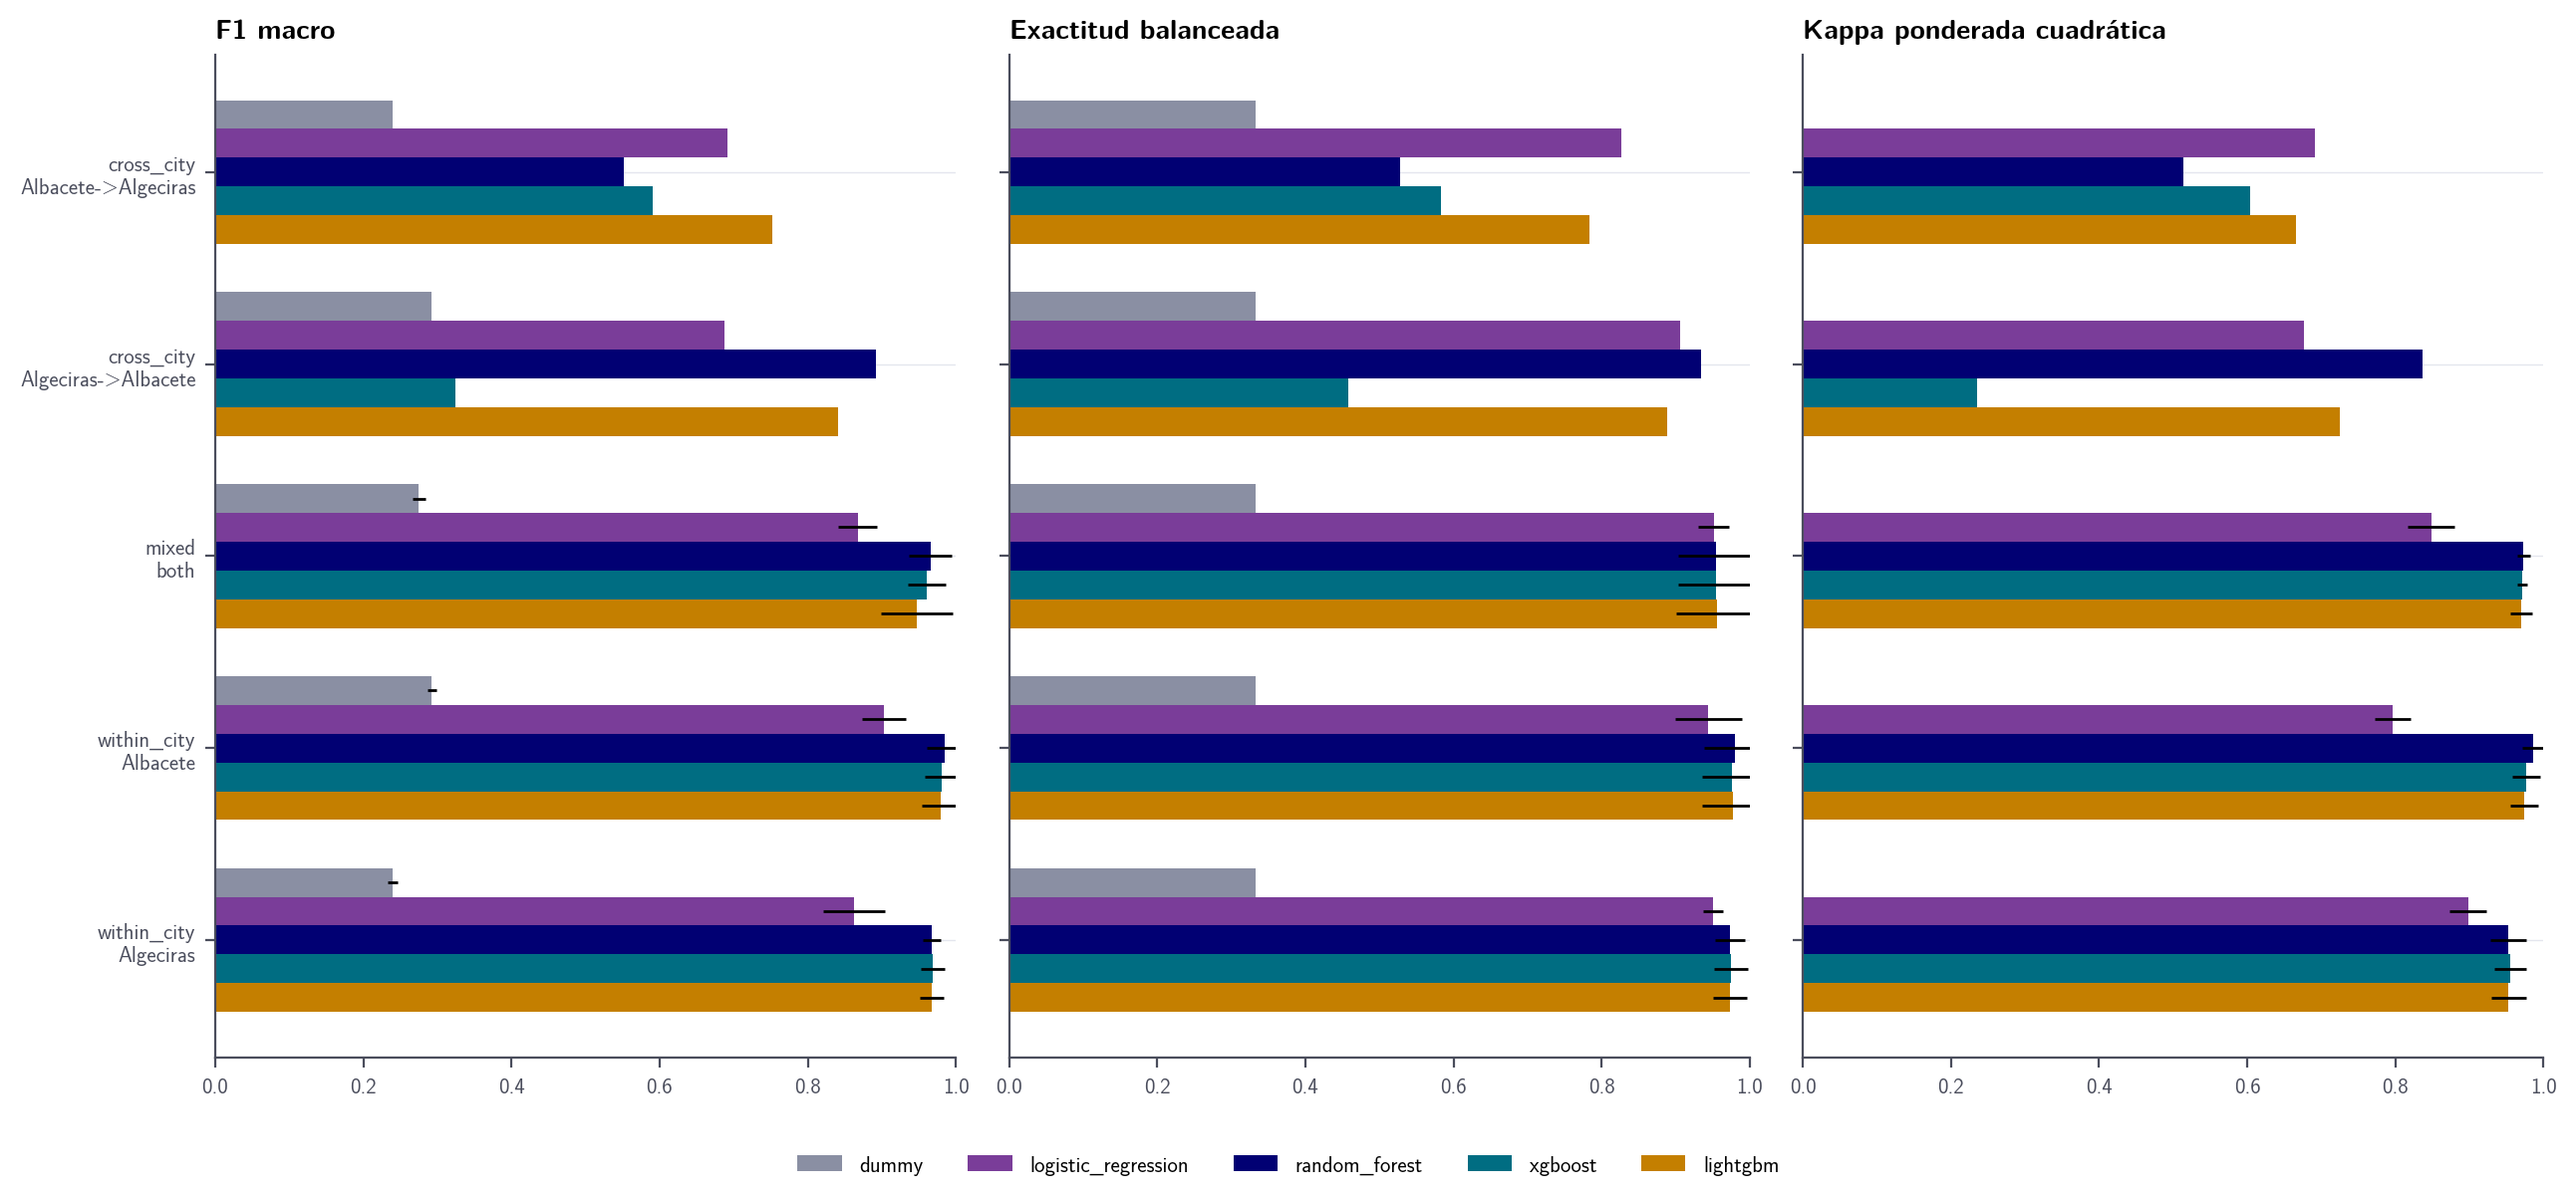
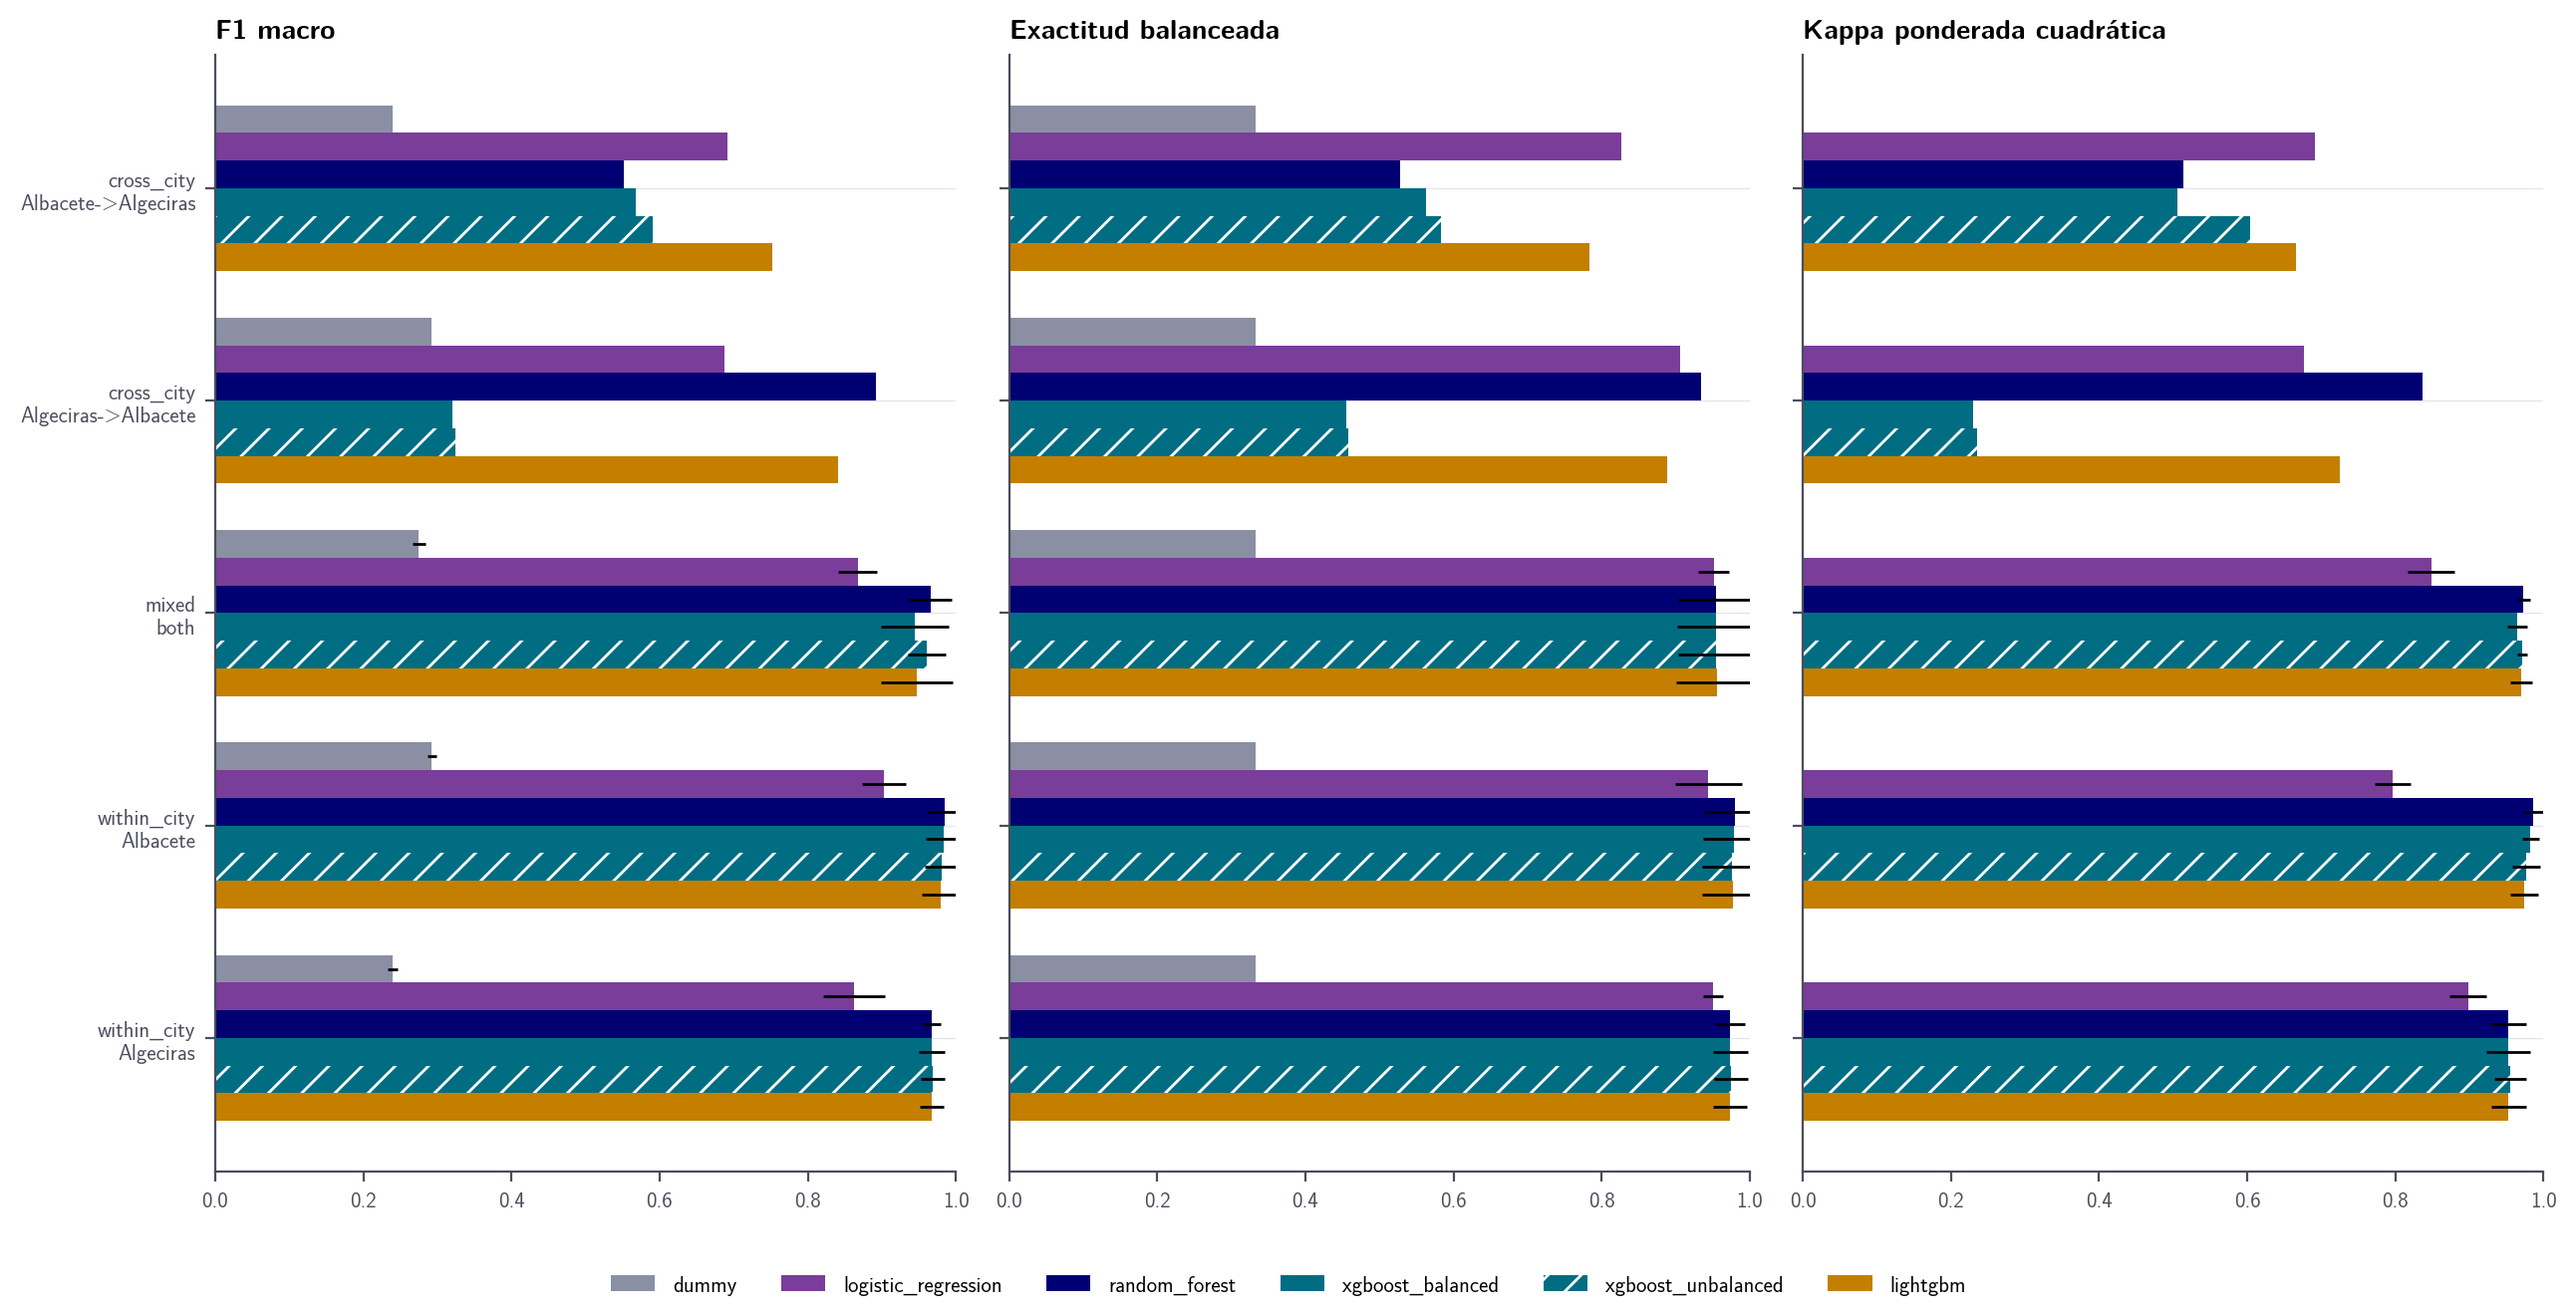
feat(train): separate XGBoost in balanced and unbalanced.

diff --git a/urban_accessibility_ml/modeling/train.py b/urban_accessibility_ml/modeling/train.py
@@ -7,9 +7,11 @@ An experiment is a combination of:
 """
 
 import pandas as pd
+from sklearn.base import BaseEstimator
+from sklearn.utils.class_weight import compute_sample_weight
 
 from urban_accessibility_ml.modeling.evaluate import evaluate
-from urban_accessibility_ml.modeling.models import build_model
+from urban_accessibility_ml.modeling.models import NEED_SAMPLE_WEIGHT, build_model
 from urban_accessibility_ml.preprocessing.features import get_xy
 from urban_accessibility_ml.preprocessing.split import Split
 
@@ -41,8 +43,7 @@ def run_one(
     X_test, y_test = X.loc[split.test_ids], y.loc[split.test_ids]
 
     # 3. Train
-    model = build_model(model_name)
-    model.fit(X_train, y_train)
+    model = _train(model_name, X_train, y_train)
 
     # 4. Predict
     y_pred = model.predict(X_test)
@@ -62,3 +63,33 @@ def run_one(
         "n_test": len(X_test),
         **metrics,
     }
+
+
+def _train(model_name: str, X_train: pd.DataFrame, y_train: pd.Series) -> BaseEstimator:
+    """
+    Build the model and train it on the train rows.
+
+    :param model_name: one of the keys of modeling.models.BUILDERS.
+    :param X_train: inputs of the train rows.
+    :param y_train: encoded classes of the train rows.
+    :return: the trained model.
+    """
+    model = build_model(model_name)
+    model.fit(X_train, y_train, **_fit_params(model_name, y_train))
+    return model
+
+
+def _fit_params(model_name: str, y_train: pd.Series) -> dict:
+    """
+    Extra arguments for fit. Some models (XGBoost) have no class_weight: their classes are
+    balanced with one weight per train row (sample_weight).
+    https://scikit-learn.org/stable/modules/generated/sklearn.utils.class_weight.compute_sample_weight.html
+    https://xgboost.readthedocs.io/en/stable/python/python_api.html#module-xgboost.sklearn
+
+    :param model_name: one of the keys of modeling.models.NEED_SAMPLE_WEIGHT.
+    :param y_train: encoded classes of the train rows.
+    :return: {"sample_weight": weights} if the model needs it, an empty dict if not.
+    """
+    if NEED_SAMPLE_WEIGHT[model_name]:
+        return {"sample_weight": compute_sample_weight("balanced", y_train)}
+    return {}

diff --git a/tests/modeling/test_train.py b/tests/modeling/test_train.py
@@ -3,6 +3,7 @@ import pandas as pd
 import pytest
 
 from urban_accessibility_ml.config import DIMENSIONS, METRICS, PROFILES, TARGET_COLUMNS
+from urban_accessibility_ml.modeling import train
 from urban_accessibility_ml.modeling.train import run_one
 from urban_accessibility_ml.preprocessing.split import Split
 
@@ -64,3 +65,22 @@ def test_run_one_unknown_feature_set(df):
 def test_run_one_rows_collect_into_a_dataframe(df):
     rows = [run_one(df, SPLIT, FEATURE_SET, PROFILE, m) for m in ["dummy", "logistic_regression"]]
     assert pd.DataFrame(rows)["model"].tolist() == ["dummy", "logistic_regression"]
+
+
+def test_run_one_balances_the_classes_when_the_model_needs_it(df, monkeypatch):
+    calls = []
+    real = train.compute_sample_weight
+
+    def spy(class_weight, y):
+        calls.append(len(y))
+        return real(class_weight, y)
+
+    monkeypatch.setattr(train, "compute_sample_weight", spy)
+    run_one(df, SPLIT, FEATURE_SET, PROFILE, "xgboost_balanced")
+    assert calls == [len(TRAIN_IDS)]  # one weight per TRAIN row
+
+
+@pytest.mark.parametrize("model_name", ["dummy", "logistic_regression", "random_forest", "xgboost_unbalanced", "lightgbm"])
+def test_run_one_does_not_compute_weights_for_the_other_models(df, monkeypatch, model_name):
+    monkeypatch.setattr(train, "compute_sample_weight", lambda *a: pytest.fail("weights were computed"))
+    run_one(df, SPLIT, FEATURE_SET, PROFILE, model_name)

diff --git a/tests/modeling/models/test_model_xgboost_balanced.py b/tests/modeling/models/test_model_xgboost_balanced.py
@@ -1,0 +1,27 @@
+from sklearn.utils.class_weight import compute_sample_weight
+from xgboost import XGBClassifier
+
+from urban_accessibility_ml.modeling.models import model_xgboost_balanced
+
+OTHER_SEED = 7
+
+
+class TestXGBoostBalanced:
+    def test_type_and_params(self):
+        model = model_xgboost_balanced.build_model(OTHER_SEED)
+        assert isinstance(model, XGBClassifier)
+        assert model.n_estimators == model_xgboost_balanced.N_ESTIMATORS
+        assert model.n_jobs == model_xgboost_balanced.N_JOBS
+        assert model.random_state == OTHER_SEED
+
+    def test_has_no_class_weight(self):
+        assert not hasattr(model_xgboost_balanced.build_model(), "class_weight")
+
+    def test_needs_sample_weight(self):
+        assert model_xgboost_balanced.NEED_SAMPLE_WEIGHT is True
+
+    def test_beats_the_dummy_with_balanced_sample_weight(self, xy, dummy_accuracy):
+        X, y = xy
+        weights = compute_sample_weight("balanced", y)
+        pred = model_xgboost_balanced.build_model().fit(X, y, sample_weight=weights).predict(X)
+        assert (pred == y).mean() > dummy_accuracy

diff --git a/urban_accessibility_ml/modeling/models/__init__.py b/urban_accessibility_ml/modeling/models/__init__.py
@@ -8,15 +8,27 @@ from urban_accessibility_ml.modeling.models import (
     model_lightgbm,
     model_logistic_regression,
     model_random_forest,
-    model_xgboost,
+    model_xgboost_balanced,
+    model_xgboost_unbalanced,
 )
 
 BUILDERS = {
     "dummy": model_dummy.build_model,
     "logistic_regression": model_logistic_regression.build_model,
     "random_forest": model_random_forest.build_model,
-    "xgboost": model_xgboost.build_model,
+    "xgboost_balanced": model_xgboost_balanced.build_model,
+    "xgboost_unbalanced": model_xgboost_unbalanced.build_model,
     "lightgbm": model_lightgbm.build_model,
+}
+
+# Models that must be trained with balanced sample weights (see run_one in train.py)
+NEED_SAMPLE_WEIGHT = {
+    "dummy": model_dummy.NEED_SAMPLE_WEIGHT,
+    "logistic_regression": model_logistic_regression.NEED_SAMPLE_WEIGHT,
+    "random_forest": model_random_forest.NEED_SAMPLE_WEIGHT,
+    "xgboost_balanced": model_xgboost_balanced.NEED_SAMPLE_WEIGHT,
+    "xgboost_unbalanced": model_xgboost_unbalanced.NEED_SAMPLE_WEIGHT,
+    "lightgbm": model_lightgbm.NEED_SAMPLE_WEIGHT,
 }
 
 

diff --git a/tests/modeling/models/test_build_model.py b/tests/modeling/models/test_build_model.py
@@ -2,9 +2,9 @@ import numpy as np
 import pytest
 
 from urban_accessibility_ml.config import SEED
-from urban_accessibility_ml.modeling.models import BUILDERS, build_model
+from urban_accessibility_ml.modeling.models import BUILDERS, NEED_SAMPLE_WEIGHT, build_model
 
-MODEL_NAMES = ["dummy", "logistic_regression", "random_forest", "xgboost", "lightgbm"]
+MODEL_NAMES = ["dummy", "logistic_regression", "random_forest", "xgboost_balanced", "xgboost_unbalanced", "lightgbm"]
 OTHER_SEED = 7
 UNKNOWN_MODEL = "does_not_exist"
 CLASSES = {0, 1, 2}  # C, B, A
@@ -13,6 +13,12 @@ CLASSES = {0, 1, 2}  # C, B, A
 class TestBuildModel:
     def test_builders_names(self):
         assert list(BUILDERS) == MODEL_NAMES
+
+    def test_need_sample_weight_has_every_model(self):
+        assert list(NEED_SAMPLE_WEIGHT) == MODEL_NAMES
+
+    def test_only_xgboost_balanced_needs_sample_weight(self):
+        assert [name for name, needs in NEED_SAMPLE_WEIGHT.items() if needs] == ["xgboost_balanced"]
 
     def test_unknown_model(self):
         with pytest.raises(ValueError, match="Unknown model"):

diff --git a/urban_accessibility_ml/modeling/models/model_xgboost_balanced.py b/urban_accessibility_ml/modeling/models/model_xgboost_balanced.py
@@ -1,4 +1,4 @@
-"""XGBoost: gradient boosted trees.
+"""XGBoost with balanced classes: gradient boosted trees, trained with balanced sample weights.
 
 Docs:
     - API: https://xgboost.readthedocs.io/en/stable/python/python_api.html#xgboost.XGBClassifier
@@ -12,6 +12,7 @@ from urban_accessibility_ml.config import SEED
 
 N_ESTIMATORS = 300
 N_JOBS = -1
+NEED_SAMPLE_WEIGHT = True
 
 
 def build_model(seed: int = SEED) -> XGBClassifier:

diff --git a/urban_accessibility_ml/modeling/models/model_dummy.py b/urban_accessibility_ml/modeling/models/model_dummy.py
@@ -10,6 +10,8 @@ from sklearn.dummy import DummyClassifier
 from urban_accessibility_ml.config import SEED
 
 STRATEGY = "most_frequent"
+NEED_SAMPLE_WEIGHT = False
+
 
 def build_model(seed: int = SEED) -> DummyClassifier:
     """Return a classifier that ignores the inputs and always predicts the most frequent class.

diff --git a/urban_accessibility_ml/modeling/models/model_logistic_regression.py b/urban_accessibility_ml/modeling/models/model_logistic_regression.py
@@ -11,6 +11,8 @@ from urban_accessibility_ml.config import SEED
 
 CLASS_WEIGHT = "balanced"
 MAX_ITER = 1000
+NEED_SAMPLE_WEIGHT = False
+
 
 def build_model(seed: int = SEED) -> LogisticRegression:
     """Return a multiclass logistic regression with class weights.

diff --git a/urban_accessibility_ml/modeling/models/model_random_forest.py b/urban_accessibility_ml/modeling/models/model_random_forest.py
@@ -12,6 +12,7 @@ from urban_accessibility_ml.config import SEED
 N_ESTIMATORS = 300
 CLASS_WEIGHT = "balanced"
 N_JOBS = -1
+NEED_SAMPLE_WEIGHT = False
 
 
 def build_model(seed: int = SEED) -> RandomForestClassifier:

diff --git a/urban_accessibility_ml/modeling/models/model_lightgbm.py b/urban_accessibility_ml/modeling/models/model_lightgbm.py
@@ -12,6 +12,7 @@ N_ESTIMATORS = 300
 CLASS_WEIGHT = "balanced"
 N_JOBS = -1
 VERBOSITY = -1  # silent
+NEED_SAMPLE_WEIGHT = False
 
 
 def build_model(seed: int = SEED) -> LGBMClassifier:
